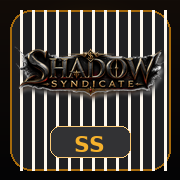
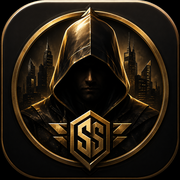
push

diff --git a/src/App.jsx b/src/App.jsx
@@ -5,11 +5,12 @@ const AUTH_USERS_KEY = "shadow_syndicate_auth_users_v1";
 const AUTH_SESSION_KEY = "shadow_syndicate_auth_session_v1";
 const INSTALL_PROMPT_DISMISSED_KEY = "shadow_syndicate_install_prompt_dismissed_v1";
 const INSTALL_PROMPT_ACCEPTED_KEY = "shadow_syndicate_install_prompt_accepted_v1";
+const SETTINGS_KEY = "shadow_syndicate_settings_v1";
 const ADMIN_USERNAME = "admin";
 const ADMIN_DEFAULT_PASSWORD = "admin123";
 const ADMIN_DEFAULT_PIN = "0000";
-const APP_PHASE = "Phase 1.25";
-const APP_BUILD_NAME = "App Icon & Install Prompt";
+const APP_PHASE = "Phase 1.26";
+const APP_BUILD_NAME = "Settings, Install Hub & New App Icon";
 const APP_BUILD_LABEL = `${APP_PHASE} • ${APP_BUILD_NAME}`;
 
 
@@ -843,6 +844,12 @@ const pageCards = [
     image: "/art/pages/city-wire.jpg",
     desc: "Track city updates and underworld movement.",
   },
+  {
+    tab: "settings",
+    title: "Settings",
+    image: "/icon-192.png",
+    desc: "Tune your game, app install behavior, and quality-of-life preferences.",
+  },
 ];
 
 const streetOpportunities = [
@@ -1175,6 +1182,22 @@ function loadAuthSession() {
     return session?.username ? session : null;
   } catch {
     return null;
+  }
+}
+
+const defaultSettings = {
+  musicOn: true,
+  sfxOn: true,
+  notificationsOn: true,
+  reducedMotion: false,
+};
+
+function loadSettings() {
+  try {
+    const saved = JSON.parse(localStorage.getItem(SETTINGS_KEY) || "null");
+    return { ...defaultSettings, ...(saved && typeof saved === "object" ? saved : {}) };
+  } catch {
+    return { ...defaultSettings };
   }
 }
 
@@ -2369,6 +2392,8 @@ export default function App() {
     return window.localStorage.getItem(INSTALL_PROMPT_DISMISSED_KEY) === "1" || window.localStorage.getItem(INSTALL_PROMPT_ACCEPTED_KEY) === "1";
   });
 
+  const [settings, setSettings] = useState(loadSettings);
+
   const currentUser = session?.username ? users[session.username] : null;
   const selectedClass = bossClasses.find((item) => item.id === classId) || bossClasses[0];
   const selectedDistrict = startingDistrictOptions.find((item) => item.id === startingDistrictId) || startingDistrictOptions[0];
@@ -2476,6 +2501,14 @@ export default function App() {
     if (!game.started) return;
     setGame((old) => ensureDailyState(old));
   }, [game.started]);
+
+  useEffect(() => {
+    localStorage.setItem(SETTINGS_KEY, JSON.stringify(settings));
+    if (typeof document !== "undefined") {
+      document.documentElement.classList.toggle("reduce-motion", Boolean(settings.reducedMotion));
+    }
+  }, [settings]);
+
 
   useEffect(() => {
     const timer = setInterval(() => {
@@ -4030,6 +4063,41 @@ export default function App() {
     return getDistrictName(id);
   }
 
+  function updateSetting(key) {
+    setSettings((old) => ({ ...old, [key]: !old[key] }));
+  }
+
+  function reopenInstallPrompt() {
+    if (typeof window === "undefined") return;
+    window.localStorage.removeItem(INSTALL_PROMPT_DISMISSED_KEY);
+    setInstallPromptDismissed(false);
+
+    const isStandalone = window.matchMedia?.("(display-mode: standalone)")?.matches || window.navigator.standalone === true;
+    if (isStandalone) return;
+
+    const isiOS = /iphone|ipad|ipod/i.test(window.navigator.userAgent || "") && /safari/i.test(window.navigator.userAgent || "");
+    if (isiOS) {
+      setInstallPromptMode("ios");
+      setShowInstallPrompt(true);
+      return;
+    }
+
+    if (deferredInstallPrompt) {
+      setInstallPromptMode("native");
+      setShowInstallPrompt(true);
+    }
+  }
+
+  function resetInstallPromptMemory() {
+    if (typeof window === "undefined") return;
+    window.localStorage.removeItem(INSTALL_PROMPT_DISMISSED_KEY);
+    window.localStorage.removeItem(INSTALL_PROMPT_ACCEPTED_KEY);
+    setInstallPromptDismissed(false);
+  }
+
+  const isInstalled = typeof window !== "undefined" && (window.matchMedia?.("(display-mode: standalone)")?.matches || window.navigator.standalone === true);
+  const installReady = Boolean(deferredInstallPrompt) || installPromptMode === "ios";
+
   const handleDismissInstallPrompt = () => {
     setShowInstallPrompt(false);
     setInstallPromptDismissed(true);
@@ -4334,6 +4402,7 @@ export default function App() {
           ["wire", "City Wire"],
           ["log", "Log"],
           ["account", "Account"],
+          ["settings", "Settings"],
         ].map(([id, label]) => (
           <button key={id} onClick={() => setTab(id)} className={tab === id ? "active" : ""}>
             {label}
@@ -4846,6 +4915,20 @@ export default function App() {
             </Panel>
           )}
 
+          {tab === "settings" && (
+            <Panel title="Settings & Install" sub="Tune your local game experience, install behavior, and quick quality-of-life options.">
+              <SettingsPanel
+                settings={settings}
+                onToggle={updateSetting}
+                installReady={installReady}
+                isInstalled={isInstalled}
+                buildLabel={APP_BUILD_LABEL}
+                onOpenInstall={reopenInstallPrompt}
+                onResetInstallPrompt={resetInstallPromptMemory}
+              />
+            </Panel>
+          )}
+
           {tab === "account" && (
             <Panel title="Account" sub="Manage sign-in, password, admin resets, and your boss picture or animated GIF.">
               <AccountPanel
@@ -4869,6 +4952,8 @@ export default function App() {
         <aside className="sidebar">
           <Panel title="Empire Status">
             <Info label="Build" value={APP_BUILD_LABEL} />
+            <Info label="App Install" value={isInstalled ? "Installed" : installReady ? "Ready" : "Browser only"} />
+            <Info label="Settings" value={`${settings.musicOn ? "Music On" : "Music Off"} • ${settings.sfxOn ? "SFX On" : "SFX Off"}`} />
             <Info label="Boss Class" value={bossClass.name} />
             <Info label="Campaign" value={`${campaignClaimedCount}/${campaignChapters.length} chapters`} />
             <Info label="Daily Orders" value={dailyClaimed ? `Claimed • ${game.dailyStreak || 0} streak` : `${dailyOrders.filter((order) => order.done).length}/${dailyOrders.length} complete`} />
@@ -4935,6 +5020,7 @@ export default function App() {
           ["lieutenants", "Lts"],
           ["vault", "Vault"],
           ["account", "Acct"],
+          ["settings", "Set"],
         ].map(([id, label]) => (
           <button key={id} onClick={() => setTab(id)} className={tab === id ? "active" : ""}>
             {label}
@@ -5169,6 +5255,72 @@ function AuthScreen({ users, onSignIn, onCreateAccount, onResetPassword }) {
     </div>
   );
 }
+
+function SettingsPanel({ settings, onToggle, installReady, isInstalled, buildLabel, onOpenInstall, onResetInstallPrompt }) {
+  const rows = [
+    ["musicOn", "Music", "Keep the underworld soundtrack enabled when the audio layer is added."],
+    ["sfxOn", "Sound Effects", "Keep action sounds enabled for taps, jobs, fights, and rewards."],
+    ["notificationsOn", "Install Reminders", "Allow the game to keep showing install reminders and related prompts."],
+    ["reducedMotion", "Reduced Motion", "Cut down on motion and transitions for a calmer screen."],
+  ];
+
+  return (
+    <div className="settings-panel">
+      <section className="settings-hero-card">
+        <img src="/icon-192.png" alt="Shadow Syndicate app icon" />
+        <div>
+          <p className="kicker">Game Setup</p>
+          <h3>Shadow Syndicate App Hub</h3>
+          <p className="soft-text">This build now uses the new app icon art and gives the player a simple place to manage install prompts and basic experience settings.</p>
+          <p className="soft-text">Running: {buildLabel}</p>
+        </div>
+      </section>
+
+      <div className="account-grid">
+        <section className="account-box settings-box">
+          <h3>Install Status</h3>
+          <p className="soft-text">Current status: <strong>{isInstalled ? "Installed to device" : installReady ? "Install prompt available" : "Browser mode"}</strong></p>
+          <div className="button-row compact-row">
+            <button className="primary" type="button" onClick={onOpenInstall} disabled={isInstalled || !installReady}>
+              {isInstalled ? "Already Installed" : "Open Install Prompt"}
+            </button>
+            <button className="secondary" type="button" onClick={onResetInstallPrompt}>
+              Reset Install Prompt
+            </button>
+          </div>
+          <p className="soft-text">If the install prompt was dismissed before, reset it here so you can test it again.</p>
+        </section>
+
+        <section className="account-box settings-box">
+          <h3>App Icon Preview</h3>
+          <div className="settings-icon-preview">
+            <img src="/icon-512.png" alt="Shadow Syndicate icon preview" />
+            <div>
+              <p className="soft-text">The new icon is now tied into the favicon, manifest, Apple touch icon, and installable app icon set.</p>
+              <p className="soft-text">This is the art players should see when they install the game to their phone or desktop.</p>
+            </div>
+          </div>
+        </section>
+
+        <section className="account-box settings-box full-span">
+          <h3>Game Preferences</h3>
+          <div className="settings-toggle-list">
+            {rows.map(([key, label, desc]) => (
+              <button key={key} type="button" className={`settings-toggle ${settings[key] ? "on" : "off"}`} onClick={() => onToggle(key)}>
+                <div>
+                  <strong>{label}</strong>
+                  <span>{desc}</span>
+                </div>
+                <span className="settings-toggle-pill">{settings[key] ? "On" : "Off"}</span>
+              </button>
+            ))}
+          </div>
+        </section>
+      </div>
+    </div>
+  );
+}
+
 
 function AccountPanel({ currentUser, users, game, bossClass, onDisplayName, onChangePassword, onAdminReset, onAdminCreate, onImageFile, onImageUrl, onLogout, onResetGame }) {
   const [displayName, setDisplayName] = useState(currentUser?.displayName || "");

diff --git a/src/index.css b/src/index.css
@@ -4390,3 +4390,126 @@ select {
     font-size: 0.86rem;
   }
 }
+
+/* Phase 1.26 settings + better icon integration */
+.settings-panel {
+  display: grid;
+  gap: 16px;
+}
+
+.settings-hero-card {
+  display: grid;
+  grid-template-columns: 86px 1fr;
+  gap: 16px;
+  align-items: center;
+  padding: 16px;
+  border: 1px solid rgba(245, 158, 11, 0.28);
+  border-radius: 20px;
+  background: linear-gradient(135deg, rgba(245,158,11,0.14), rgba(7,7,10,0.86));
+  box-shadow: 0 18px 48px rgba(0,0,0,0.28);
+}
+
+.settings-hero-card img {
+  width: 86px;
+  height: 86px;
+  border-radius: 22px;
+  border: 1px solid rgba(245, 158, 11, 0.42);
+  box-shadow: 0 12px 24px rgba(0,0,0,0.34);
+}
+
+.settings-icon-preview {
+  display: grid;
+  grid-template-columns: 112px 1fr;
+  gap: 14px;
+  align-items: center;
+}
+
+.settings-icon-preview img {
+  width: 112px;
+  height: 112px;
+  border-radius: 28px;
+  border: 1px solid rgba(245, 158, 11, 0.42);
+  box-shadow: 0 16px 28px rgba(0,0,0,0.36);
+}
+
+.settings-toggle-list {
+  display: grid;
+  gap: 12px;
+}
+
+.settings-toggle {
+  width: 100%;
+  display: flex;
+  align-items: center;
+  justify-content: space-between;
+  gap: 14px;
+  text-align: left;
+  padding: 14px 16px;
+  border-radius: 18px;
+  border: 1px solid rgba(255,255,255,0.08);
+  background: rgba(255,255,255,0.02);
+  color: inherit;
+}
+
+.settings-toggle strong,
+.settings-toggle span {
+  display: block;
+}
+
+.settings-toggle span {
+  color: rgba(255,255,255,0.7);
+  font-size: 0.92rem;
+  margin-top: 4px;
+}
+
+.settings-toggle.on {
+  border-color: rgba(245,158,11,0.44);
+  background: linear-gradient(135deg, rgba(245,158,11,0.16), rgba(255,255,255,0.03));
+}
+
+.settings-toggle-pill {
+  min-width: 62px;
+  text-align: center;
+  padding: 8px 12px;
+  border-radius: 999px;
+  font-weight: 800;
+  letter-spacing: 0.04em;
+  text-transform: uppercase;
+  background: rgba(0,0,0,0.36);
+  border: 1px solid rgba(245,158,11,0.32);
+  color: #f7bf52;
+}
+
+.full-span {
+  grid-column: 1 / -1;
+}
+
+.reduce-motion *,
+.reduce-motion *::before,
+.reduce-motion *::after {
+  animation-duration: 0.01ms !important;
+  animation-iteration-count: 1 !important;
+  transition-duration: 0.01ms !important;
+  scroll-behavior: auto !important;
+}
+
+@media (max-width: 720px) {
+  .settings-hero-card,
+  .settings-icon-preview {
+    grid-template-columns: 1fr;
+  }
+
+  .settings-hero-card img,
+  .settings-icon-preview img {
+    justify-self: start;
+  }
+
+  .settings-toggle {
+    align-items: flex-start;
+    flex-direction: column;
+  }
+
+  .settings-toggle-pill {
+    align-self: flex-start;
+  }
+}
